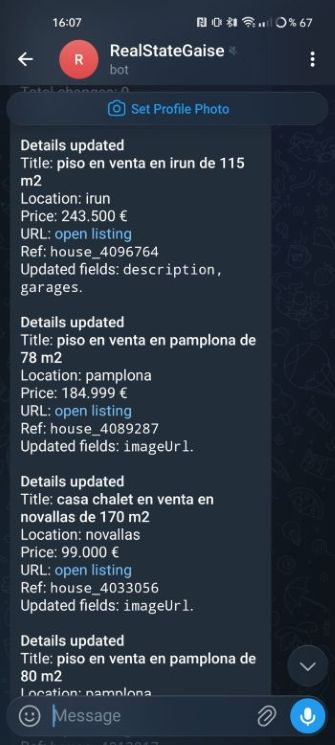
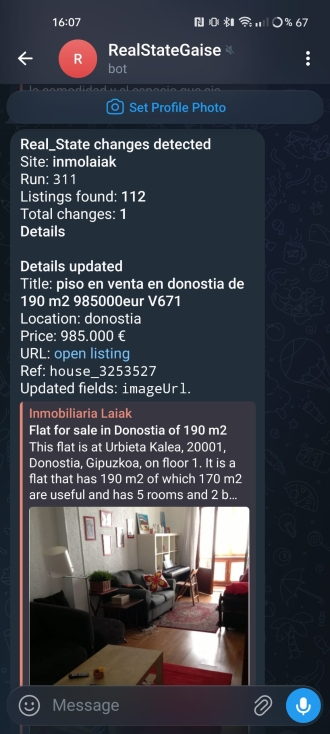
readme changes

diff --git a/README.md b/README.md
@@ -90,8 +90,8 @@ Common adapter behavior:
 - I improved the dashboard website's UI using Stitch MCP on Antigravity and also 
 making it responsive so that it can be used on devices such as mobile phones.
 
-![responsive screenshot 1](screenshots/screenshot_mb1.png)
-![responsive screenshot 1](screenshots/screenshot_mb2.png)
+![responsive screenshot 1](screenshots/screenshot_mb1.jpg)
+![responsive screenshot 1](screenshots/screenshot_mb2.jpg)
 
 ## Deployment Architecture
 
